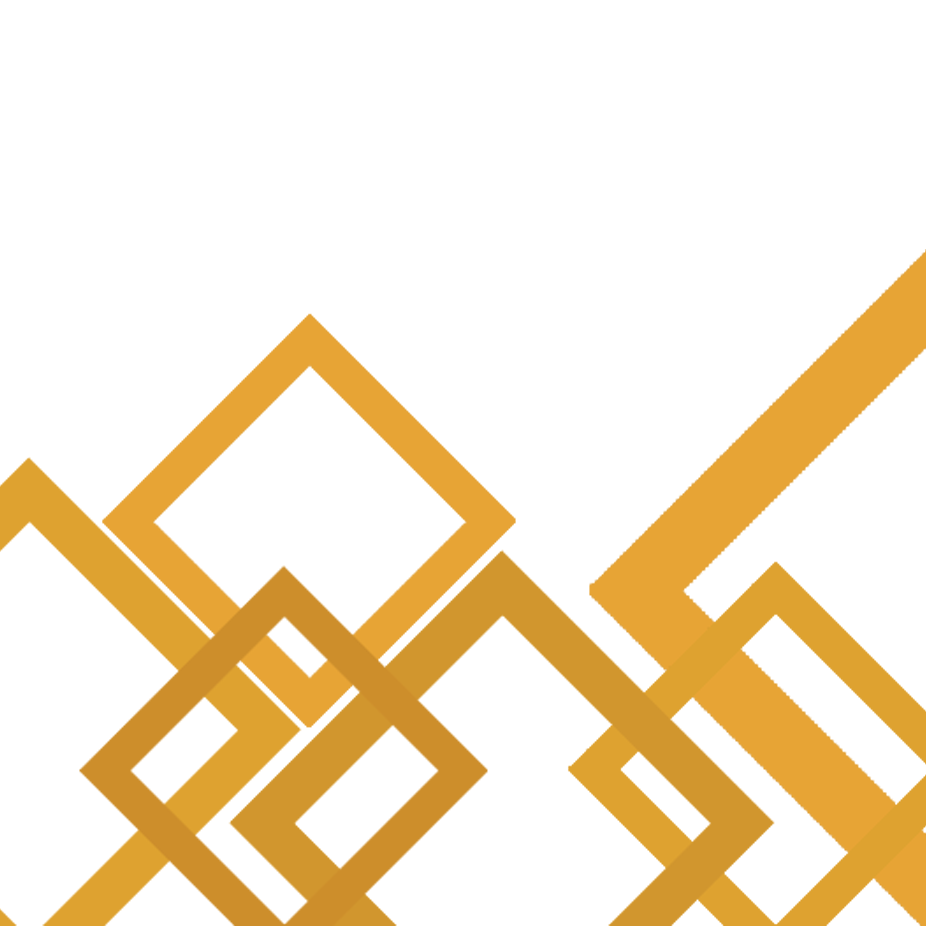
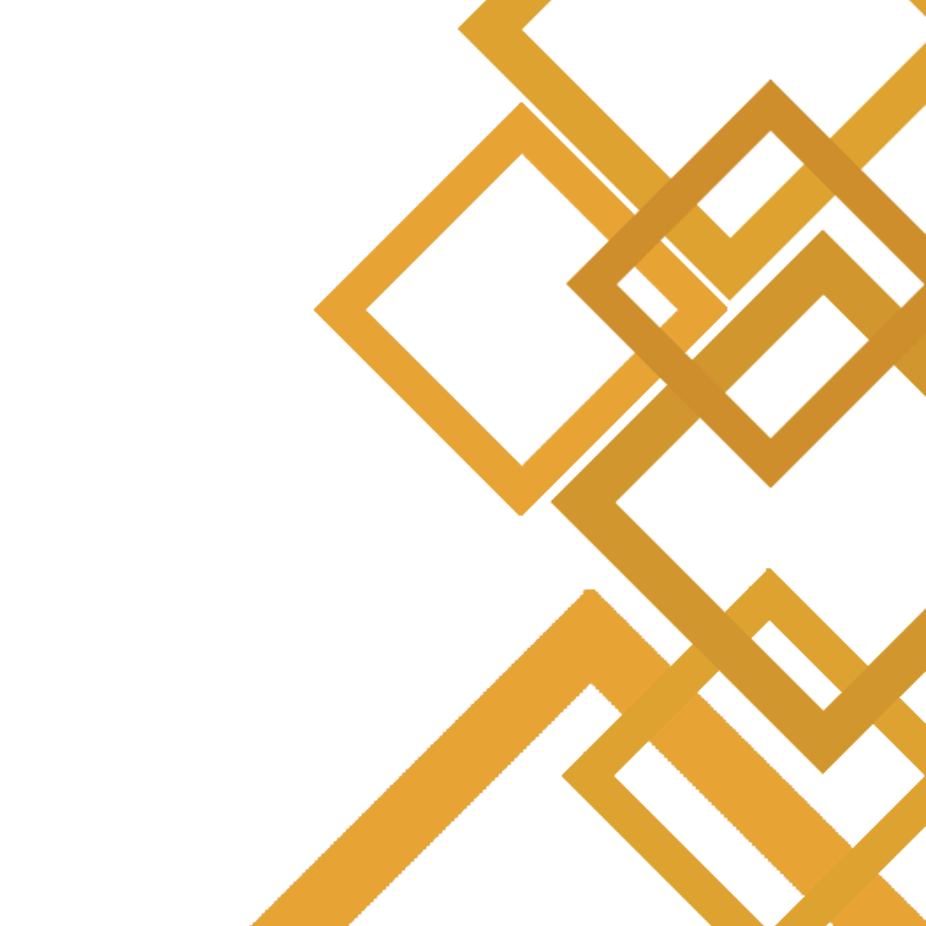
home

diff --git a/www/css/view/tab-home.css b/www/css/view/tab-home.css
@@ -7,20 +7,21 @@
 	background-color: blue;
 } */
 .home-content {
-	height: calc(100vh - 55px);
+	height: calc(100vh - 53px);
 	width: 100%;
-	background-color: ;
-	background: url(../../resources/img/tattoo.png) #FF9027 ;
-    background-repeat:   no-repeat;
-    background-position: bottom right;      
-	background-size: 100%;
+	background-color: #FF9027;
 }
 
-.home-content {
-	
-}
+
 
 @media only screen and (orientation : portrait) {
+	
+	.home-content {
+		background-image: url(../../resources/img/tattoo.png) ;
+	    background-repeat:   no-repeat;
+	    background-position: bottom right;      
+		background-size: 100%;
+	}
 	.home-content div.scroll {
 		display: block;
 	}
@@ -43,12 +44,25 @@
 	.menu-list {
 		width: 100%;
 	}
+	
 	.menu-list li.item {
-		border-bottom: 1px #017A3E solid
+		border-bottom: 1px #017A3E solid;
+	}
+	
+	.menu-list li.item.item-last {
+		border-bottom: none;
 	}
 }
 
 @media only screen and (orientation : landscape) {
+	
+	.home-content {
+		background-image: url(../../resources/img/tattoo-landscape.png)   ;
+	    background-repeat:   no-repeat;
+	    background-position: bottom right;      
+		background-size: auto 100%; 
+	}
+	
 	.home-content div.scroll {
 		display: flex;
 	}

diff --git a/www/templates/tab-home.html b/www/templates/tab-home.html
@@ -6,11 +6,11 @@
 		</div>
 		<div  class="home-menu">
 			<ul class="list menu-list">
-			    <li class="item " ng-repeat="menuItem in menu">
+			    <li class="item " ng-repeat="menuItem in menu" ng-class="{'item-last':$last}">
 			    <button class="button button-clear button-positive" ng-click="getMenuAction(menuItem)">
 				  {{::menuItem.label}} 
 				</button>
-				<img src="resources/img/Video Call Filled.svg">
+				<img src="resources/img/{{menuItem.type == 's'? 'Document Filled.svg' : 'Video Call Filled.svg' }} ">
 			    </li>
 			</ul>
 		</div>
